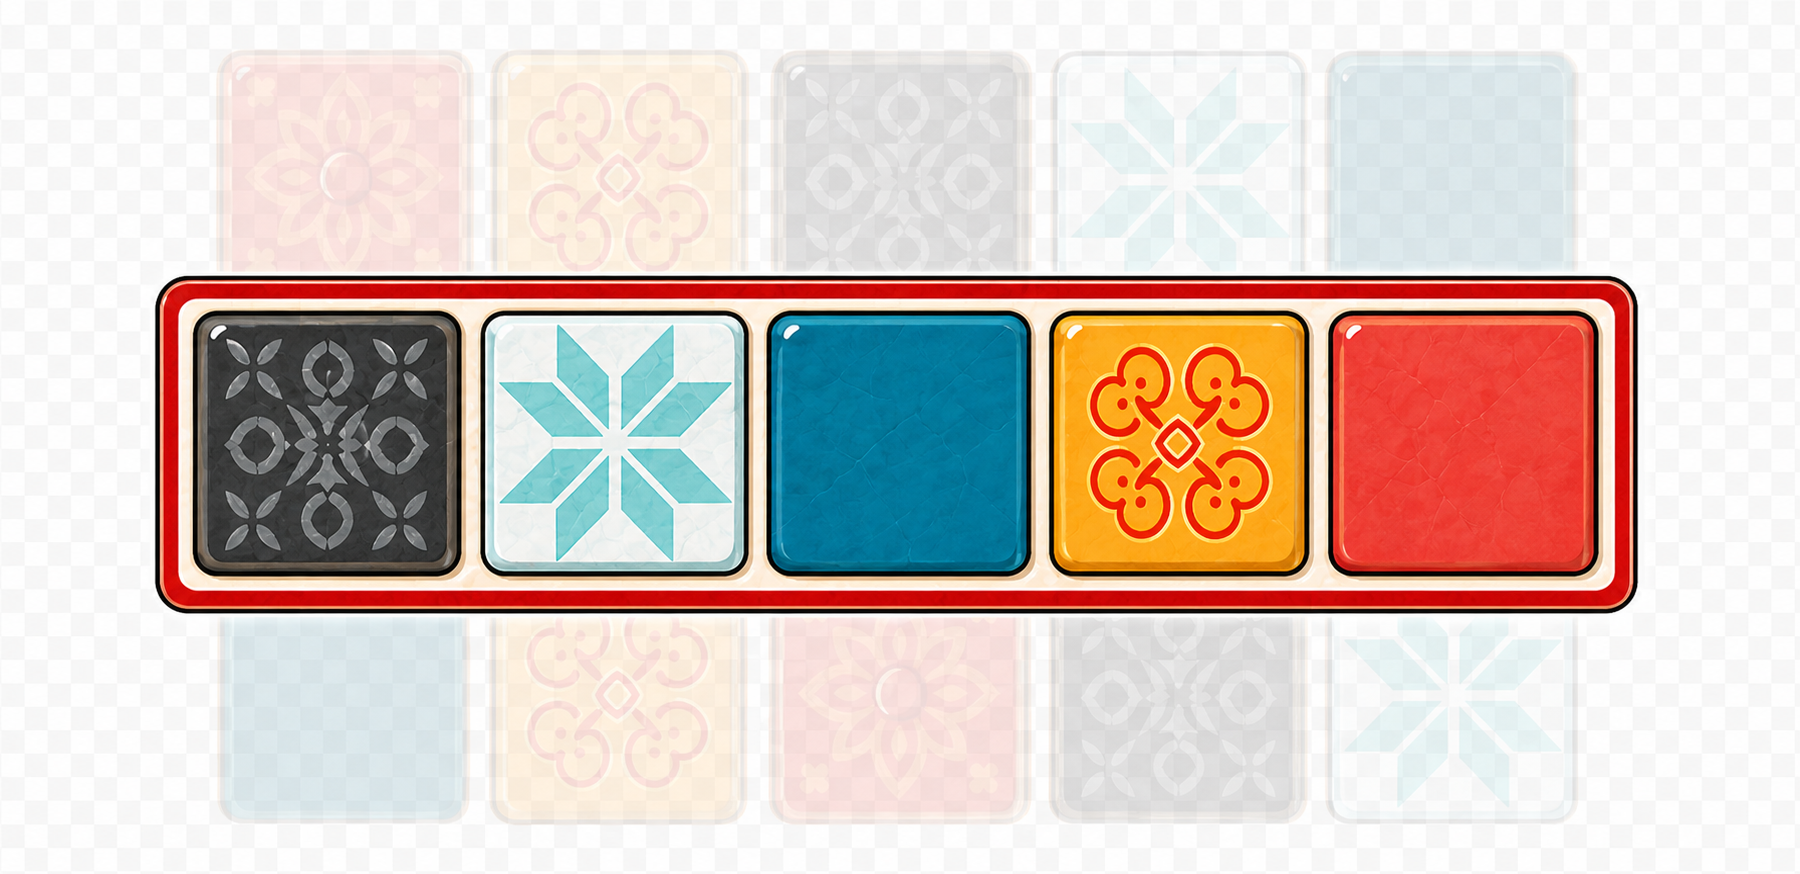
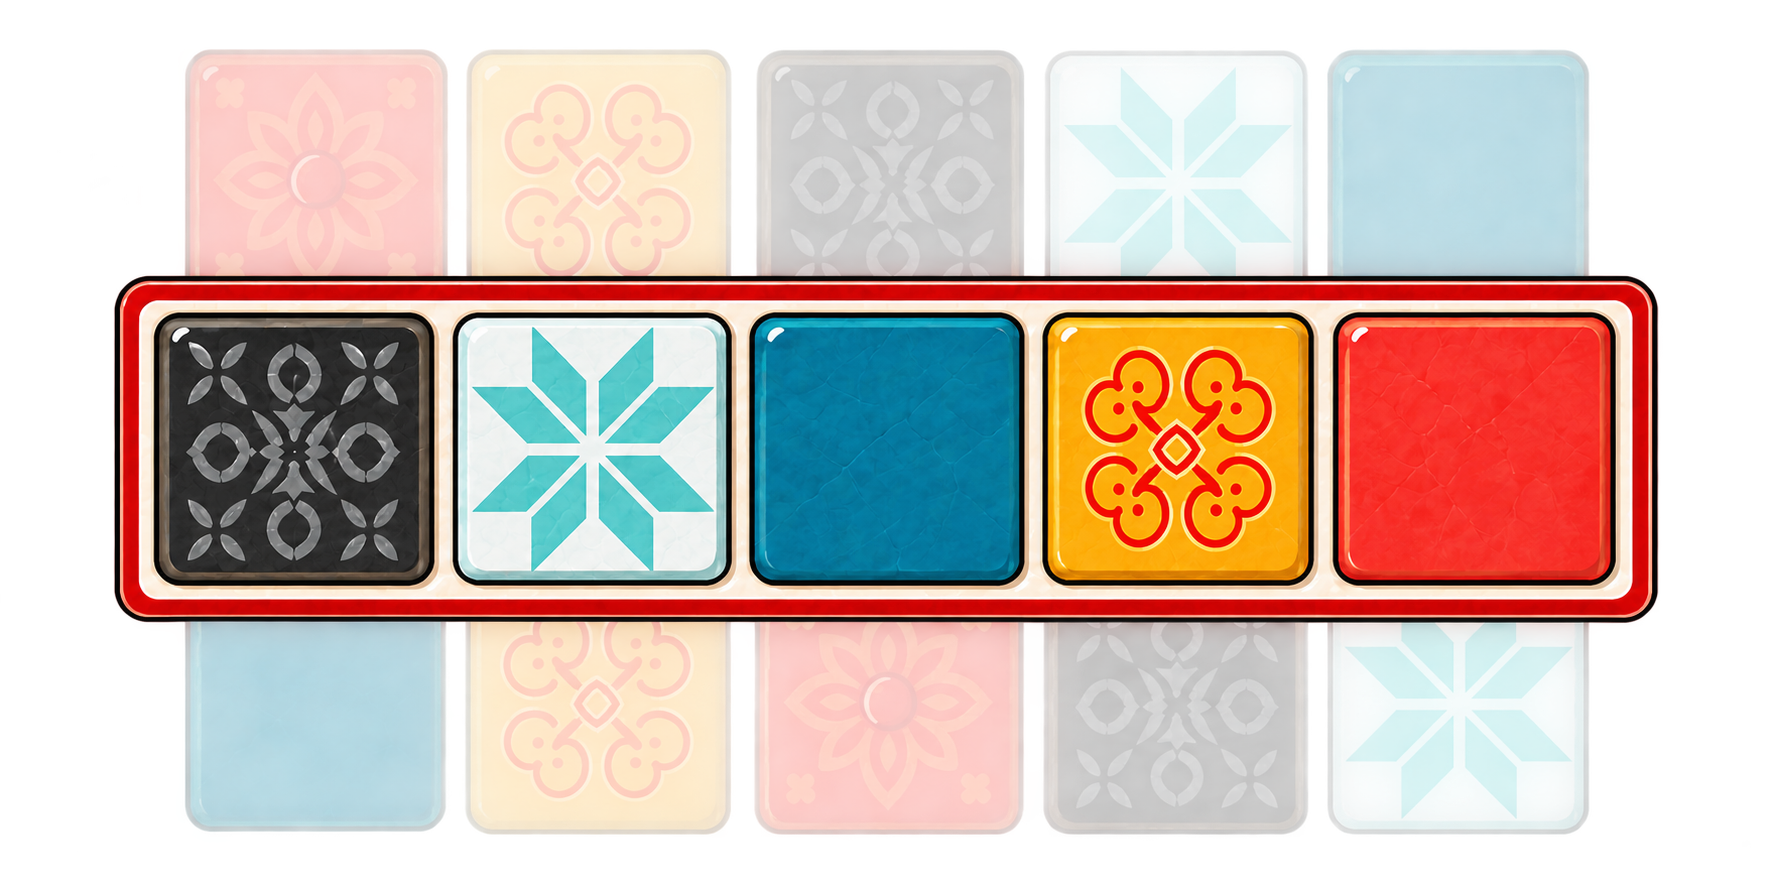
Refine Azul end game illustration

diff --git a/rules/rules.css b/rules/rules.css
@@ -235,7 +235,7 @@
 }
 .rule-card--with-info { position: relative; padding-right: 50px; }
 .rule-card h3 { margin: 6px 0 10px; font-family: var(--font-serif); font-size: 1.4rem; }
-.rule-card p, .rule-callout p { margin-bottom: 0; }
+.rule-card p, .rule-callout p { margin: 0; }
 .rule-step { display: grid; place-items: center; width: 32px; height: 32px; border-radius: 10px; color: white; background: var(--accent); font-weight: 800; }
 .rule-kicker { color: var(--accent); font-size: .8rem; font-weight: 800; letter-spacing: .12em; text-transform: uppercase; }
 .rule-info-button {
@@ -340,8 +340,21 @@
   padding: 0;
 }
 .rule-illustration--end-row img {
-  height: auto;
+  height: 80px;
   max-height: none;
+}
+.rule-final-layout {
+  display: grid;
+  grid-template-columns: minmax(0, 10fr) minmax(150px, 2fr);
+  align-items: center;
+  gap: 24px;
+  margin-bottom: 20px;
+}
+.rule-final-layout > p { margin: 0; }
+.rule-final-layout .rule-illustration--end-row {
+  width: 100%;
+  max-width: none;
+  margin: 0;
 }
 .rules-content ul, .rules-content ol { padding-left: 22px; }
 .rules-content li + li { margin-top: 8px; }
@@ -579,6 +592,11 @@
   .rule-illustration-layout > ul,
   .rule-illustration-layout > ol { margin-top: 0; }
   .rule-illustration-layout > .rule-illustration { order: -1; }
+  .rule-final-layout { grid-template-columns: 1fr; }
+  .rule-final-layout .rule-illustration--end-row {
+    max-width: 300px;
+    margin-inline: auto;
+  }
   .quick-action-grid { grid-template-columns: repeat(2, minmax(0, 1fr)); }
   .quick-combat-grid { grid-template-columns: repeat(2, minmax(0, 1fr)); }
   .quick-reference__golden-rules ul { grid-template-columns: 1fr; }

diff --git a/rules/azul/index.html b/rules/azul/index.html
@@ -184,10 +184,12 @@
           <details class="rules-section rules-section--collapsible" id="fin-juego" open>
             <summary><span><strong>Final del juego</strong><small>Bonificaciones, victoria y desempate.</small></span></summary>
             <div class="rules-section__body">
-              <p>La partida termina después de la fase de Alicatado de la Pared en la que alguien completa al menos una fila horizontal de cinco azulejos.</p>
-              <figure class="rule-illustration rule-illustration--end-row">
-                <img src="images/fila-horizontal-completa.png" alt="Fila horizontal completa resaltada con un marco rojo entre dos filas de azulejos atenuadas">
-              </figure>
+              <div class="rule-final-layout">
+                <p>La partida termina después de la fase de Alicatado de la Pared en la que alguien completa al menos una fila horizontal de cinco azulejos.</p>
+                <figure class="rule-illustration rule-illustration--end-row">
+                  <img src="images/fila-horizontal-completa.png" alt="Fila horizontal completa resaltada con un marco rojo entre dos filas de azulejos atenuadas">
+                </figure>
+              </div>
               <div class="rules-grid">
                 <article class="rule-card"><span class="rule-kicker">Filas</span><h3>+2 puntos</h3><p>Por cada fila horizontal completa de cinco azulejos.</p></article>
                 <article class="rule-card"><span class="rule-kicker">Columnas</span><h3>+7 puntos</h3><p>Por cada columna vertical completa de cinco azulejos.</p></article>
